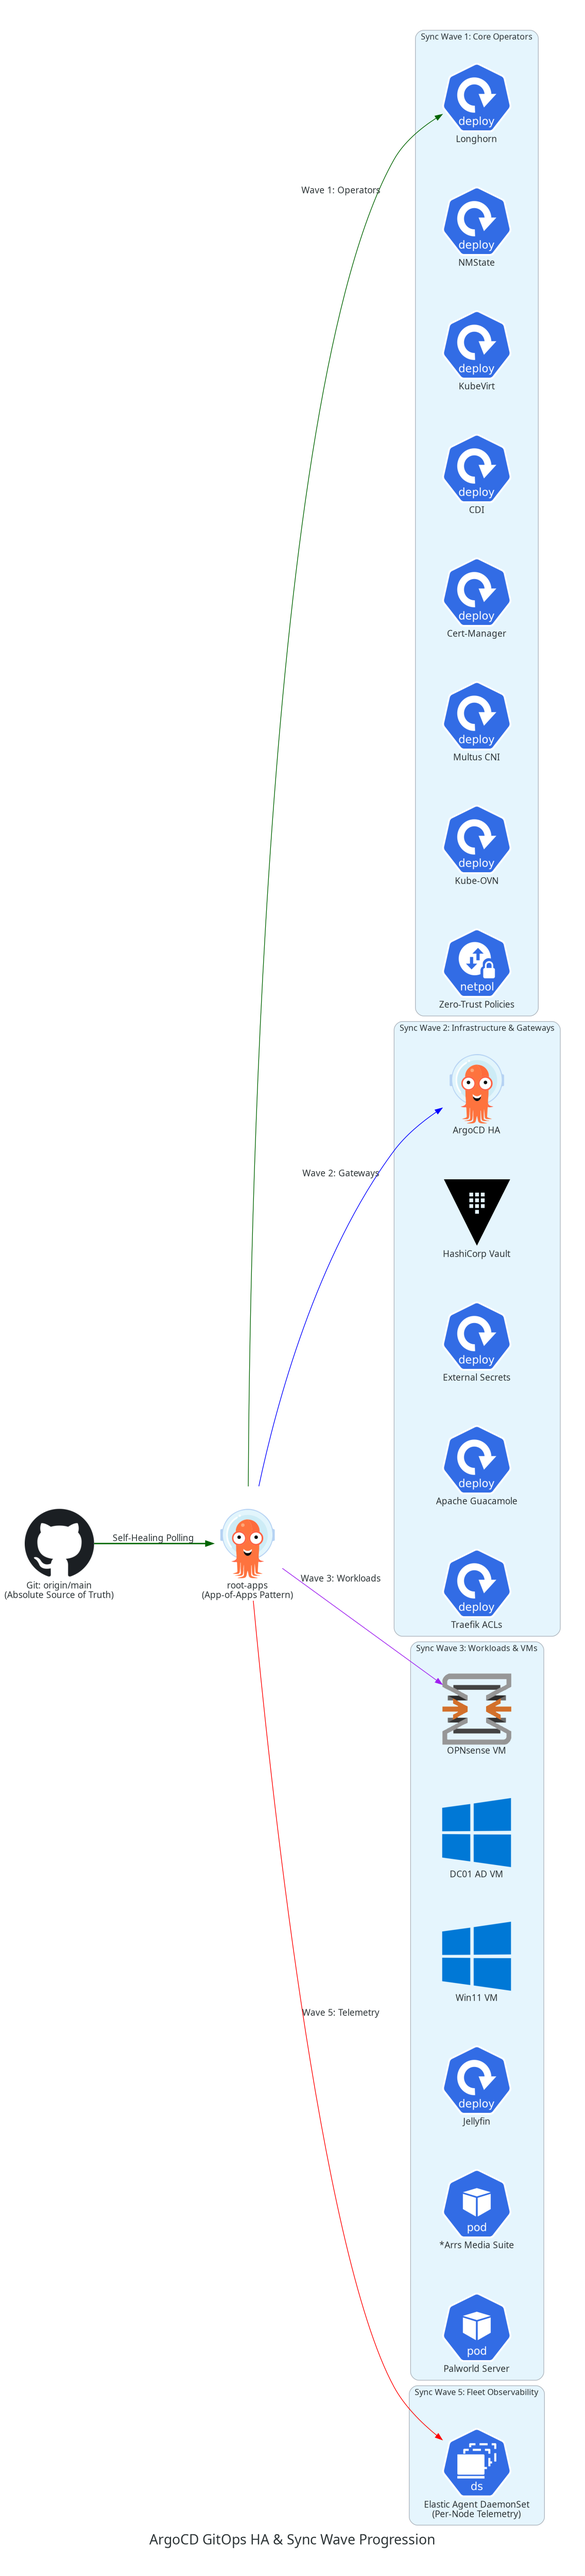
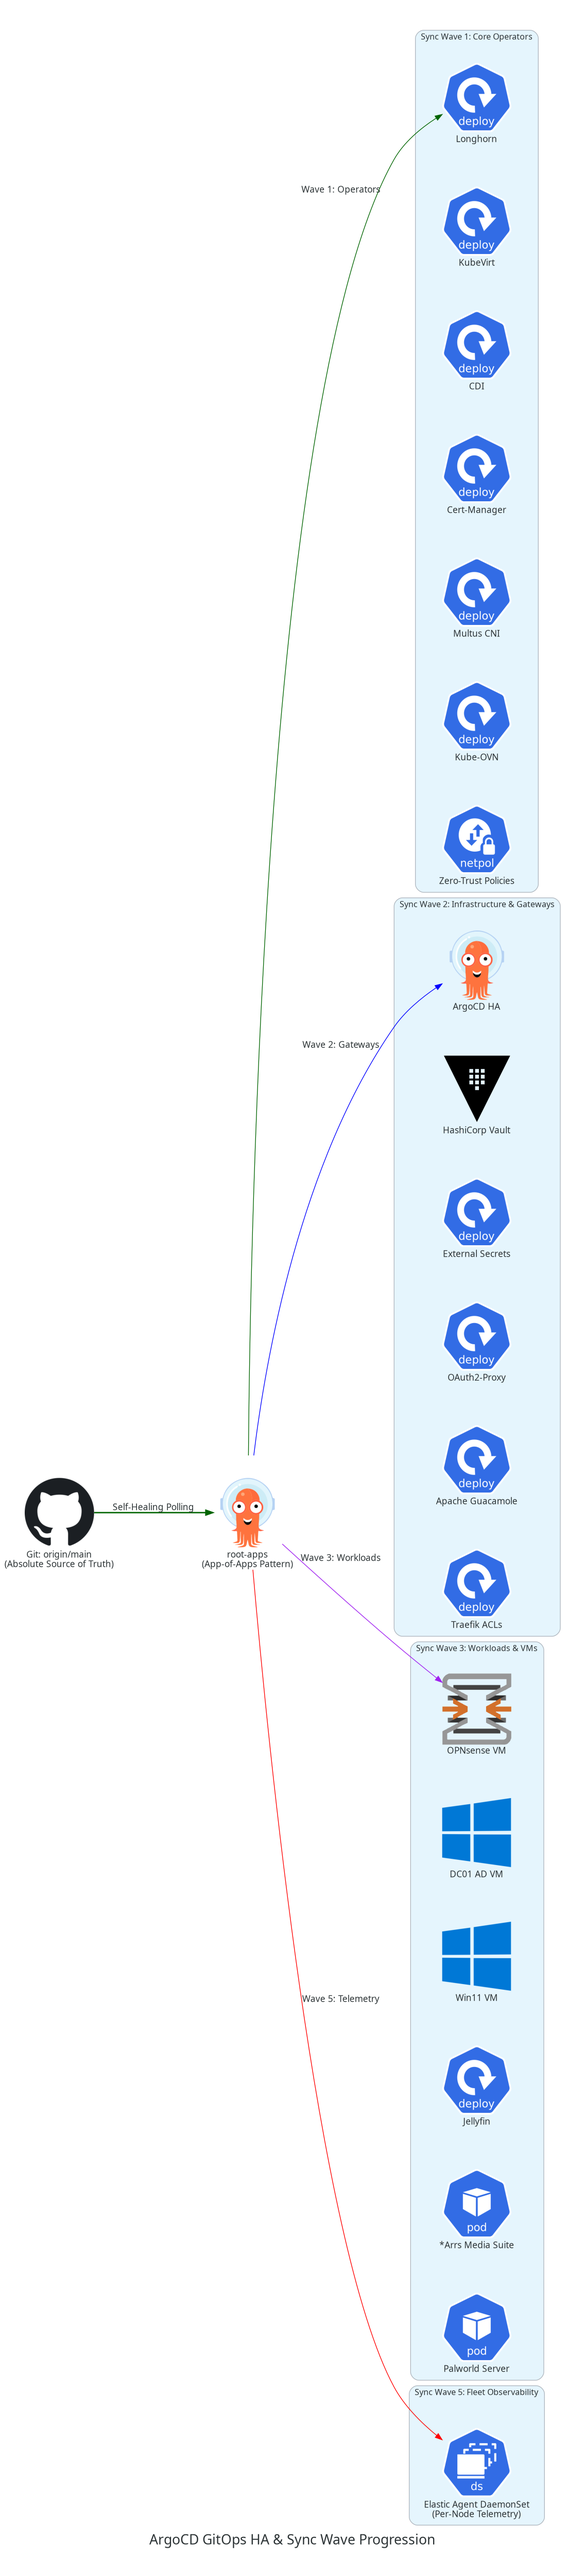
docs: regenerate architecture diagrams with updated topology
Removes legacy NMState, adds OAuth2-Proxy, updates KubeVirt network, and fixes broken diagrams class imports.

diff --git a/scripts/generate_diagrams.py b/scripts/generate_diagrams.py
@@ -23,7 +23,7 @@ from diagrams.k8s.storage import StorageClass, PV, PVC
 from diagrams.k8s.infra import Node, Master, ETCD
 from diagrams.generic.os import Windows, Ubuntu
 from diagrams.generic.storage import Storage
-from diagrams.azure.identity import ActiveDirectory, AzureActiveDirectory, EntraConnect
+from diagrams.azure.identity import ActiveDirectory, Users, Groups
 from diagrams.elastic.elasticsearch import Elasticsearch, Logstash, Kibana, Beats
 
 OUT_DIR = os.path.abspath("diagrams")
@@ -56,20 +56,21 @@ def generate_systems_provisioning_map():
 
         with Cluster("Hybrid Identity Federation Pipeline"):
             adds = ActiveDirectory("DC01 Active Directory\n(AD DS / Kerberos / LDAPS)")
-            entra = AzureActiveDirectory("Microsoft Entra ID\n(OIDC SSO / Cloud Sync)")
+            entra = ActiveDirectory("Microsoft Entra ID\n(OIDC SSO / Cloud Sync)")
 
         with Cluster("K3s Cluster (Sync Waves 1 -> 5)"):
             with Cluster("Wave 1: Core Operators & Software-Defined Fabric"):
                 infra_ops = [
                     Deployment("Longhorn Engine"),
-                    Deployment("NMState Operator"),
+                    Deployment("Kube-OVN VPC"),
                     Deployment("KubeVirt & CDI"),
                     Deployment("Cert-Manager"),
                 ]
 
             with Cluster("Wave 2: Ingress & Gateway Infrastructure"):
-                guac = Deployment("Apache Guacamole\n(Multus L2 VXLAN)")
+                guac = Deployment("Apache Guacamole\n(Multus L2 VPC)")
                 eso = Deployment("External Secrets\nOperator")
+                oauth2 = Deployment("OAuth2-Proxy\n(Traefik ForwardAuth)")
 
             with Cluster("Wave 3: Virtual Machines & Application Workloads"):
                 opnsense = OPNSense("OPNsense Firewall VM\n(Edge Perimeter)")
@@ -102,7 +103,7 @@ def generate_systems_provisioning_map():
         tf >> Edge(label="Secrets Engine", color="gray") >> vault
 
         argo >> Edge(label="Wave 1", color="darkgreen") >> infra_ops
-        argo >> Edge(label="Wave 2", color="darkgreen") >> [guac, eso]
+        argo >> Edge(label="Wave 2", color="darkgreen") >> [guac, eso, oauth2]
         argo >> Edge(label="Wave 3", color="darkgreen") >> [opnsense, win11, dc01_vm, jellyfin, arrs]
         argo >> Edge(label="Wave 5", color="darkgreen") >> eagent
 
@@ -207,13 +208,13 @@ def generate_identity_federation():
             adds = ActiveDirectory("Active Directory DS\n(ad.lambertlab.us)")
             ca = Storage("Enterprise Root CA\n(lambertlab-DC01-CA)")
             dns = Service("AD Dynamic DNS\n(10.10.0.10:53)")
-            cloud_sync = EntraConnect("Entra Cloud Sync Agent\n(gMSA: provAgentgMSA$)")
+            cloud_sync = ActiveDirectory("Entra Cloud Sync Agent\n(gMSA: provAgentgMSA$)")
             adds >> cloud_sync
             adds >> ca
 
         with Cluster("Microsoft Entra ID (Cloud Tenant)"):
-            entra_users = AzureActiveDirectory("Synchronized Users\n(chris@lambertlab.us)")
-            entra_groups = AzureActiveDirectory("Security Groups\n(LambertLab-Admins)")
+            entra_users = Users("Synchronized Users\n(chris@lambertlab.us)")
+            entra_groups = Groups("Security Groups\n(LambertLab-Admins)")
             break_glass = User("Break-Glass Admin\n(Cloud-Only Account)")
 
         with Cluster("OIDC Authenticated Applications"):
@@ -273,8 +274,8 @@ def generate_virtualization_architecture():
             cdi = Deployment("CDI (Containerized Data Importer)")
             kv_mgr = Deployment("KubeVirt Manager Web UI\n(NoVNC Console)")
 
-        with Cluster("Software-Defined L2 VXLAN Network Fabric"):
-            vxlan_bridge = Switch("br-lab0 Multicast VXLAN Bridge\n(10.10.0.0/24 Overlay)")
+        with Cluster("Software-Defined L2 VPC Network Fabric"):
+            vxlan_bridge = Switch("ovn-ad-vpc Geneve UDP Overlay\n(10.10.0.0/24 VPC)")
 
         with Cluster("Virtual Machines (Wave 3)"):
             with Cluster("OPNsense Edge Perimeter VM"):
@@ -315,7 +316,6 @@ def generate_gitops_waves():
         with Cluster("Sync Wave 1: Core Operators"):
             w1 = [
                 Deployment("Longhorn"),
-                Deployment("NMState"),
                 Deployment("KubeVirt"),
                 Deployment("CDI"),
                 Deployment("Cert-Manager"),
@@ -329,6 +329,7 @@ def generate_gitops_waves():
                 Argocd("ArgoCD HA"),
                 Vault("HashiCorp Vault"),
                 Deployment("External Secrets"),
+                Deployment("OAuth2-Proxy"),
                 Deployment("Apache Guacamole"),
                 Deployment("Traefik ACLs"),
             ]
